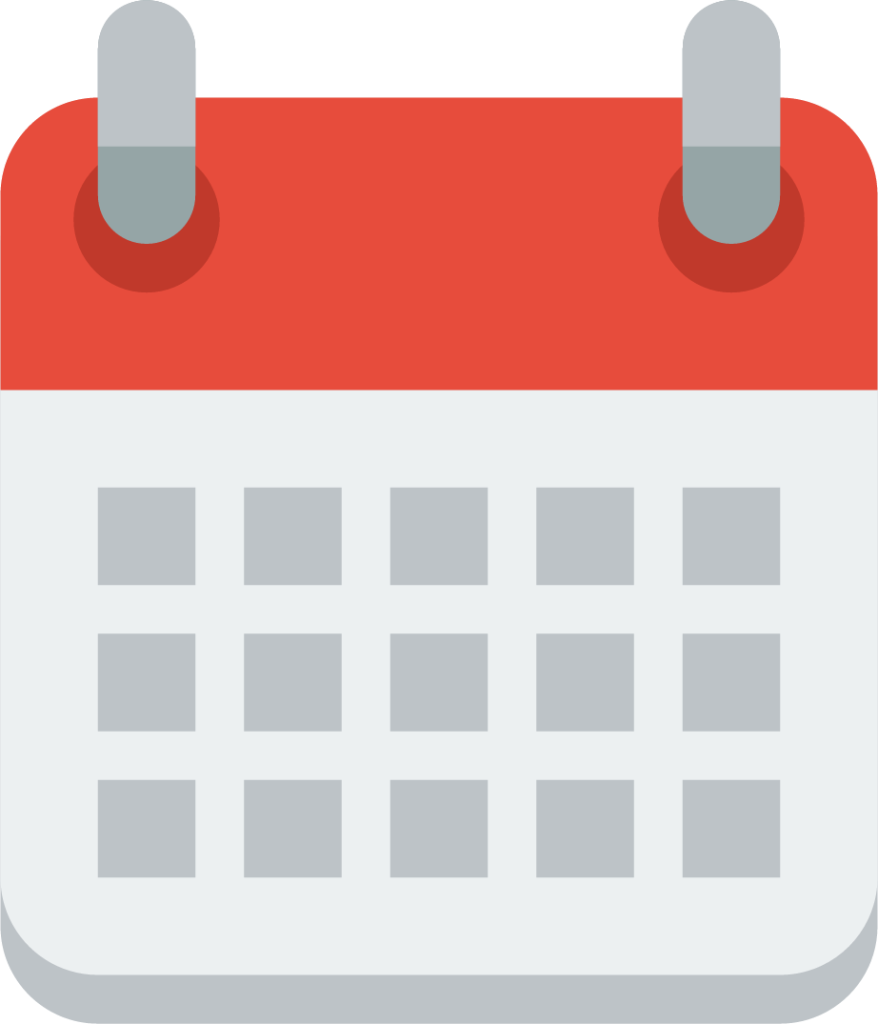
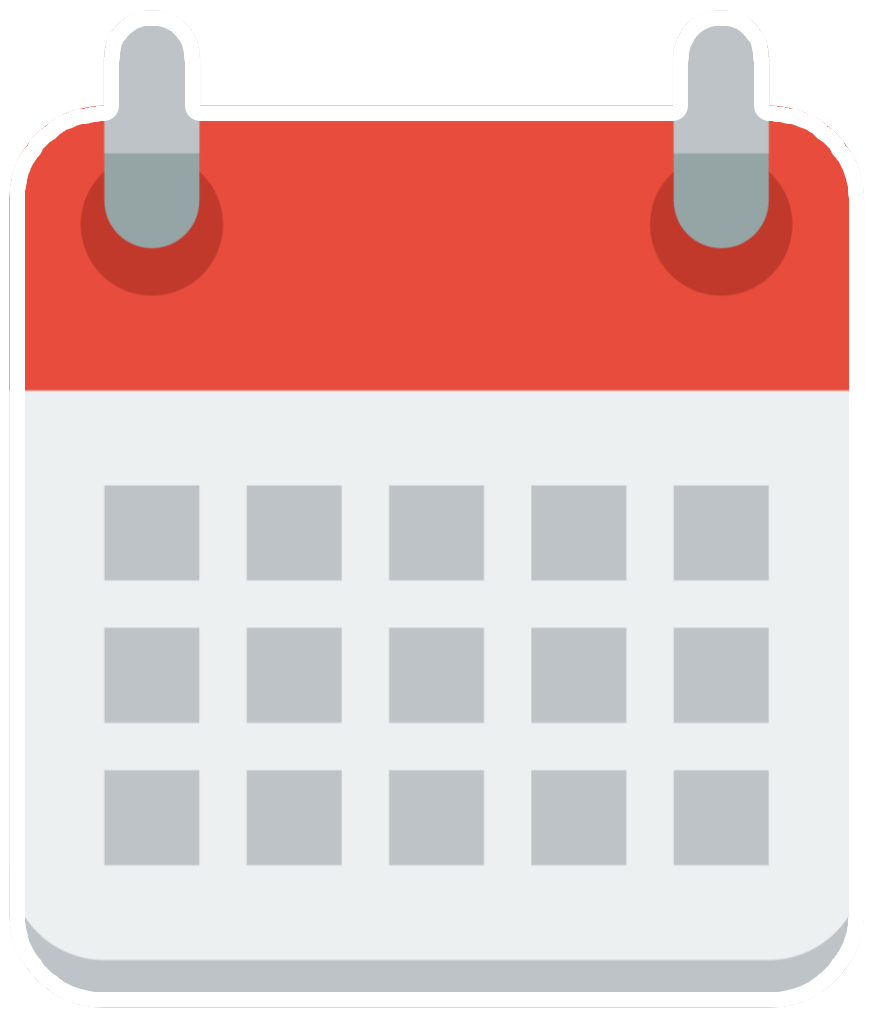
Added UMass theme

diff --git a/src/style/AppTheme.js b/src/style/AppTheme.js
@@ -21,6 +21,7 @@ const palette = {
 
   colorCoralRed: '#ff8c84',
   colorScarletRed: '#eb4034',
+  colorUMassRed: '#971B2F',
 
   colorTaroPurple: '#cda8ff',
   colorVioletPurple: '#9370DB',
@@ -128,6 +129,19 @@ const blackGoldenTheme = {
   fontSizes: myFontSize,
   index: 5,
 };
+
+const umassTheme = {
+  mainColor: palette.colorUMassRed,
+  bgColor: palette.colorBlack,
+  subColor: palette.colorWhite,
+  primaryColor: palette.colorSlateGray,
+  disableColor: palette.colorGainsboro,
+  checkBoxColor: palette.colorEmeraldGreen,
+  errorColor: palette.colorCoralRed,
+  mainFont: fontFamily.quenda,
+  fontSizes: myFontSize,
+  index: 6,
+};
 /* --- End of Official themes --- */
 
 /**
@@ -136,7 +150,15 @@ const blackGoldenTheme = {
  * add the theme you created to this list
  * @list { Theme }
  */
-const themes = [defaultTheme, greenTheme, redTheme, purpleTheme, yellowTheme, blackGoldenTheme];
+const themes = [
+  defaultTheme, 
+  greenTheme, 
+  redTheme, 
+  purpleTheme, 
+  yellowTheme, 
+  blackGoldenTheme,
+  umassTheme
+];
 
 export const themeMiniIcon = () => {
   return themes.map(theme => {
@@ -233,6 +255,10 @@ export const ThemeProvider = ({ children }) => {
     });
   };
 
+  const shouldUseUmassIcon = () => {
+    return theme.mainColor === umassTheme.mainColor;
+  }
+
   // Change the theme when app is loaded the first time
   useEffect(() => {
     const change = async () => {
@@ -247,6 +273,7 @@ export const ThemeProvider = ({ children }) => {
         theme,
         changeTheme,
         changeToStoredTheme,
+        shouldUseUmassIcon,
       }}
     >
       {children}

diff --git a/src/component/KolynLogo.js b/src/component/KolynLogo.js
@@ -1,5 +1,8 @@
+import { useContext, useEffect, useReducer } from 'react';
 import { Image, Dimensions } from 'react-native';
-import Title from '../../assets/images/icon8.png';
+import iceQuebUmass from '../../assets/images/icon7.png';
+import iceQueb from '../../assets/images/icon8.png';
+import { ThemeContext } from '../style/AppTheme';
 
 const width = Dimensions.get('window').width;
 
@@ -9,9 +12,16 @@ const width = Dimensions.get('window').width;
  * @return {Image} The app's logo
  */
 export function KolynLogo() {
+  const themeManager = useContext(ThemeContext);
+  const [, forceUpdate] = useReducer(x => x + 1, 0);
+
+  useEffect(() => {
+    forceUpdate();
+  }, [themeManager.theme])
+
   return (
     <Image
-      source={Title}
+      source={themeManager.shouldUseUmassIcon() ? iceQuebUmass : iceQueb}
       style={[
         {
           width: '75%',

diff --git a/src/views/profile_page/Theme.js b/src/views/profile_page/Theme.js
@@ -27,7 +27,7 @@ export function ProfilePageTheme(props) {
 
           <View style={kolynSmallSector()}>
             <View style={{ top: 20 }}>
-              <KolynButton onPress={navigation.goBack} text={'Cancel'} />
+              <KolynButton onPress={navigation.goBack} text={'Go back'} />
             </View>
           </View>
         </View>

diff --git a/src/views/login_page/Default.js b/src/views/login_page/Default.js
@@ -16,7 +16,6 @@ import { kolynBigSector, kolynSmallSector } from '../../style/KolynStyleKit';
  */
 export function LoginPageDefault(props) {
   const themedStyles = ThemedStyles();
-  const themeManager = useContext(ThemeContext);
   const navigation = useNavigation();
 
   const [email, setEmail] = useState('');
